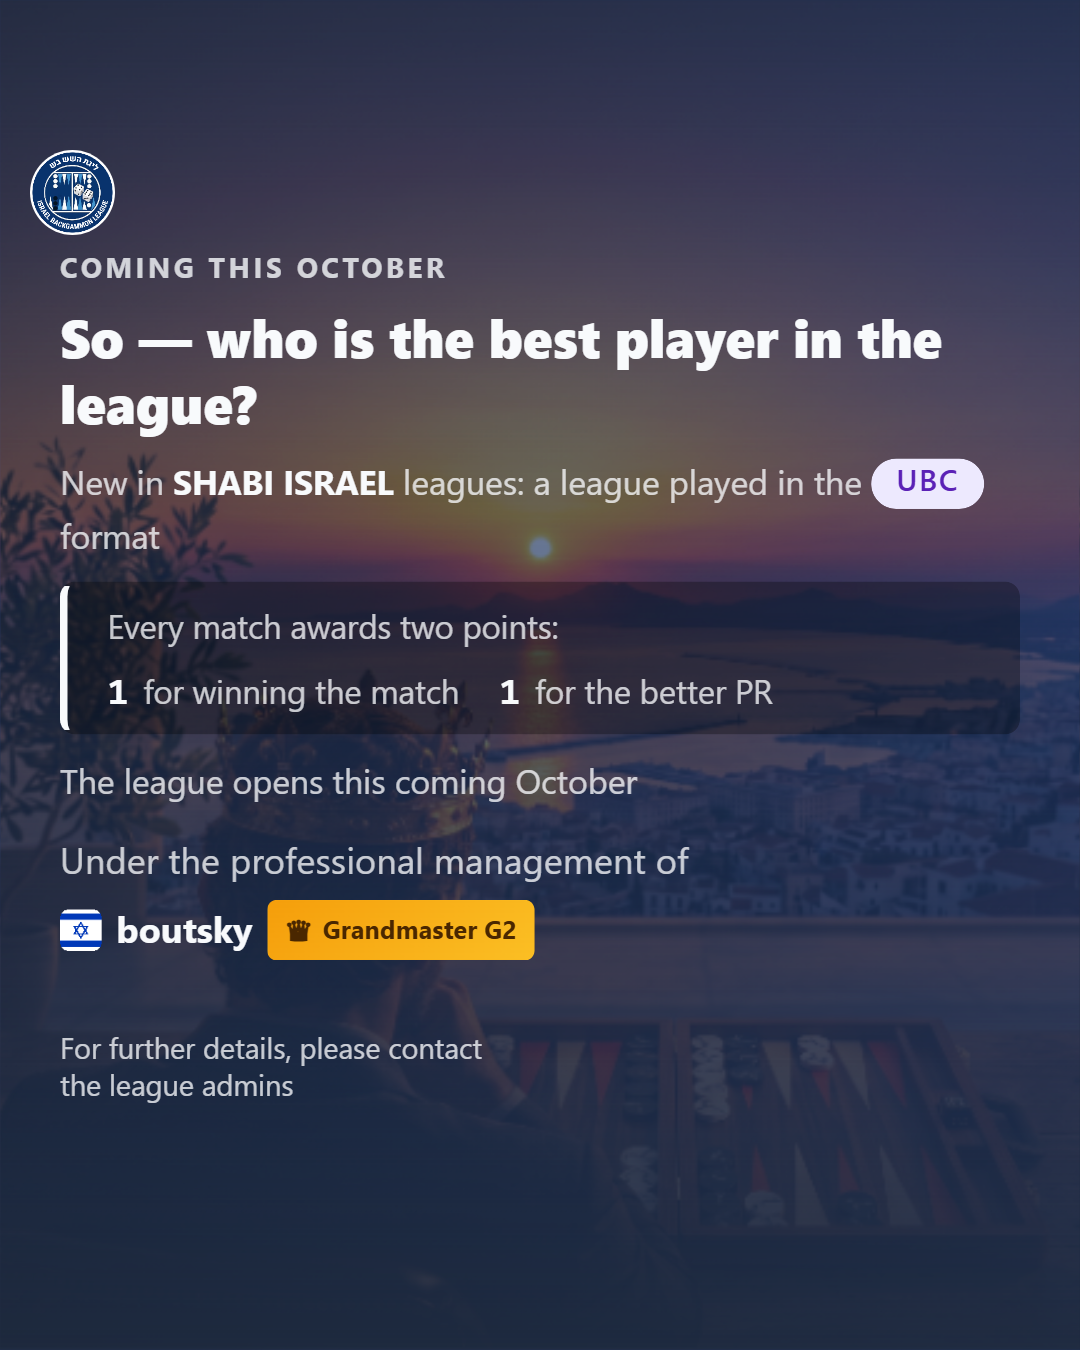
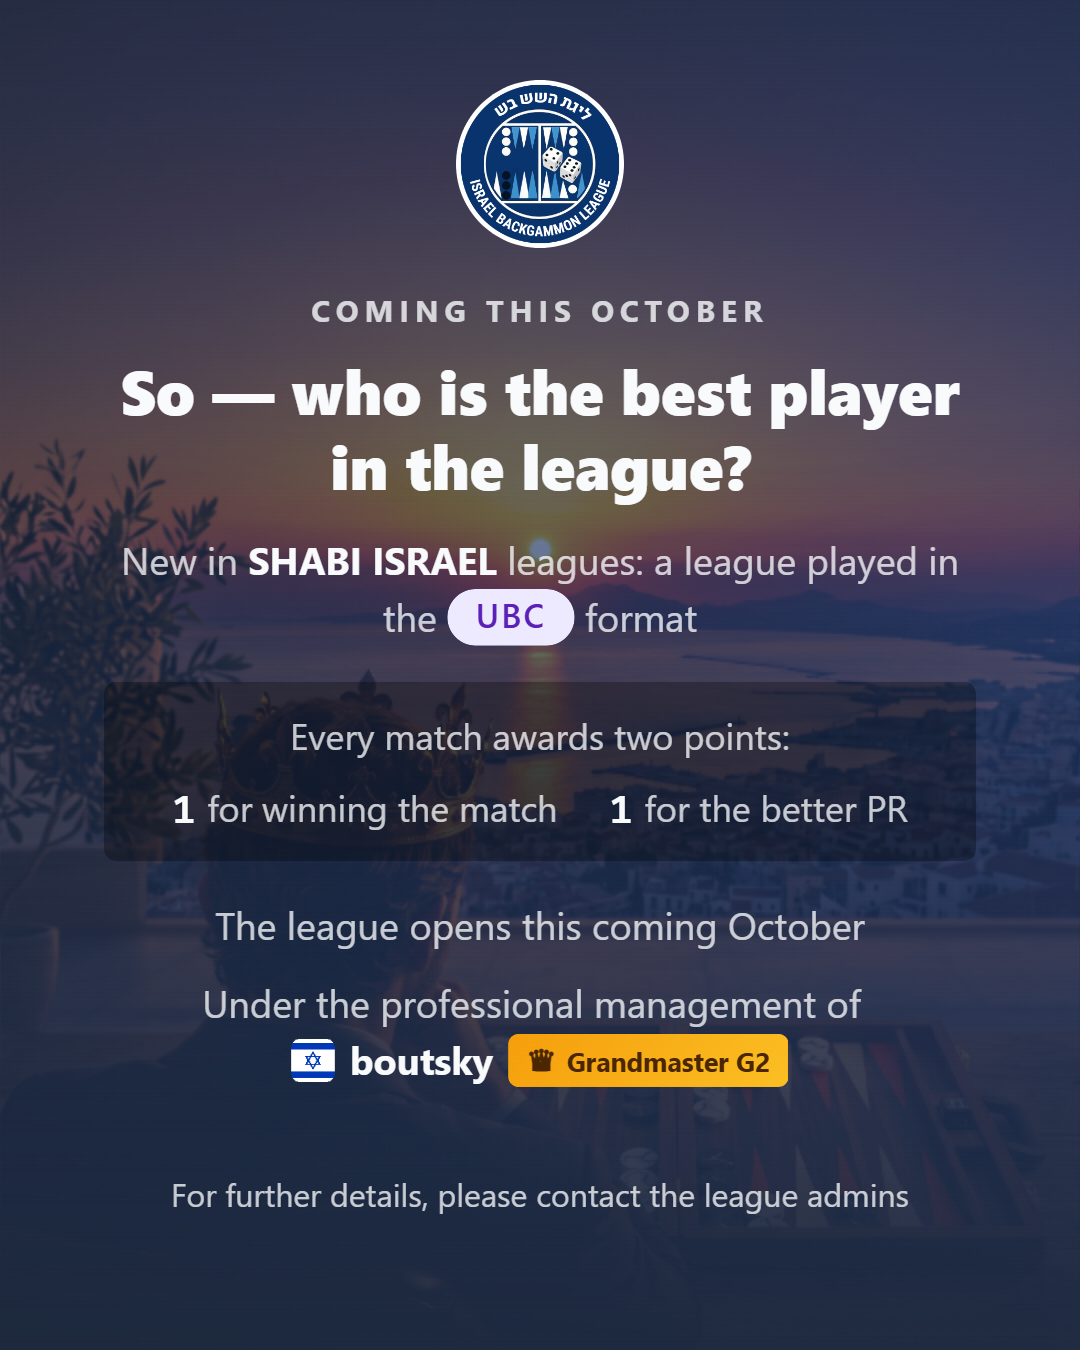
fix(db): a WHERE-less UPDATE was silently rejected by Supabase's safeupdate guard, killing every automatic projection dispatch for over an hour with no visible fault; fix(dashboard): Title Race recomputed the WHOLE league locally for one missing point instead of just that point; feat(promo-lab): sha
sql/league_projections.sql — the dispatch pipeline:
- **Root-cause fix**: `_dispatch_projection_run()`'s final `update
  public.projection_queue set dispatched_at = now(), ...` was WHERE-less,
  relying on Postgres allowing an unqualified UPDATE. The Supabase cloud
  project runs the `safeupdate` extension, which rejects that outright
  (`ERROR: UPDATE requires a WHERE clause`) — thrown *inside* Postgres, before
  `net.http_post` was ever reached, so no request even entered pg_net's outbox
  and there was nothing to inspect. Three matches landed between 21:11 and
  22:15 on 21 Sep 2026 with not one workflow run following. Fixed with an
  explicit `where league_id is not null` (league_id is the primary key, never
  null) — same fix applied to the two other WHERE-less UPDATEs in this
  function (the vault-secret-missing error path) and used consistently as "all
  rows, because the job takes all rows" rather than `where true`, so the
  intent reads back later.
- **A second, independent gap in the same mechanism**: `net.http_post` is
  fire-and-forget — it writes to pg_net's outbox and returns immediately; the
  actual GitHub response lands seconds later in `net._http_response`, which
  nothing here ever read. So a dispatch that Postgres itself executed cleanly
  but that GitHub *rejected* (expired PAT, renamed workflow/branch) looked
  identical to success: `dispatched_at` stamped, `last_error` null, no
  workflow run, no fault reported anywhere. New table
[…]

diff --git a/shabi-israel/promo-lab.html b/shabi-israel/promo-lab.html
@@ -987,7 +987,12 @@ async function saveToSite() {
    max(440px) it sat in the middle of the canvas with a third of the picture as
    empty background above and below it — fine as a modal over a page, wasteful
    as a picture whose whole job is to be legible as a chat thumbnail. */
-const SHARE_W = 432, SHARE_H = 540, SHARE_SCALE = 2.5;
+const SHARE_W = 540, SHARE_H = 675, SHARE_SCALE = 2;
+/* Symmetric side margin. The modal inherits --space-lg from the page, which is
+   sized for a 440px panel floating over content; across a full 1080px canvas
+   the same value reads as no margin at all, and RTL copy in particular ran
+   right up to the edge. */
+const SHARE_PAD_X = 52;
 /* Top SAFE AREA, in the frame's CSS px (x2.5 in the output).
    WhatsApp does not show a shared image whole in the chat bubble: it rounds the
    corners and shaves the top edge, which ate the upper half of the logo and
@@ -995,9 +1000,63 @@ const SHARE_W = 432, SHARE_H = 540, SHARE_SCALE = 2.5;
    only the CONTENT is inset, so what WhatsApp trims is photo rather than
    anything anyone needs to read. 54px = 10% of the frame, comfortably more than
    the observed crop. */
-const SHARE_SAFE_TOP = 54;
+const SHARE_SAFE_TOP = 40;
+
+/* The share image's own typography — a POSTER, not the modal.
+   Scoped to .promo-share, so none of it can reach the notice on the site.
+   Why it differs at all: the modal is read at arm's length on a phone that is
+   already showing the page, so it is left/right-aligned, compact, and sized to
+   sit beside content. A picture in a chat is judged as a thumbnail first and
+   has no content beside it — there a centred axis and much larger type are what
+   make it legible before anyone opens it. */
+const SHARE_CSS = `
+/* .promo.promo-share[data-lang] - four classes on purpose, not stylistic
+   flourish. The module's RTL rule is .promo[data-lang="he"] .promo-body,
+   specificity (0,3,0), so a plain .promo-share .promo-body at (0,2,0) loses:
+   the Hebrew poster silently kept its right-aligned copy while the English one
+   centred. Out-specifying it is the fix; relying on the later injection order
+   would be a tie that any future edit could flip.
+   (NO BACKTICKS anywhere in this stylesheet - it is a template literal, and one
+   backtick ends the string mid-rule. This exact bug has now happened three
+   times in this project.) */
+.promo.promo-share[data-lang] .promo-body,
+.promo.promo-share[data-lang] .promo-foot {
+    text-align: center;
+    padding-inline: ${SHARE_PAD_X}px;
+}
+.promo-share .promo-body { padding-top: 0; }
+/* The logo leads the poster, centred, instead of hiding in a corner. */
+.promo-share .promo-logo {
+    display: block;
+    margin: 0 auto 22px;
+    height: 84px; width: auto;
+    border-radius: 50%;
+}
+.promo-share .promo-eyebrow { font-size: 15px; letter-spacing: .2em; margin-bottom: 10px; }
+.promo-share .promo-title { font-size: 31px; line-height: 1.22; margin-bottom: 14px; }
+.promo-share .promo-body p { font-size: 19px; line-height: 1.5; margin-bottom: .55em; }
+.promo-share .promo-rule { margin: 18px 0; padding: 14px 18px; border-inline-start: 0; }
+.promo-share .promo-rule p { font-size: 18px; }
+.promo-share .promo-rule-pts { justify-content: center; gap: 26px; margin-top: 10px; }
+.promo-share .promo-rule-pt { font-size: 18px; }
+.promo-share .promo-rule-pt b { font-size: 21px; }
+/* The manager block is an inline-flex island; centring its paragraph is what
+   actually moves it, not text-align on the island itself. */
+.promo-share p.promo-manager { text-align: center; margin-top: 4px; }
+.promo-share .promo-foot { justify-content: center; padding-top: 14px; }
+.promo-share .promo-foot-note { font-size: 16px; max-width: none; }
+`;
+let _shareCssInjected = false;
+function injectShareCss() {
+    if (_shareCssInjected) return;
+    _shareCssInjected = true;
+    const el = document.createElement('style');
+    el.textContent = SHARE_CSS;
+    document.head.appendChild(el);
+}
 
 async function buildShareFrame(lang) {
+    injectShareCss();
     // configFromState() is the SAME config the preview is rendered from, so the
     // image can only ever show the design currently on screen. flags/x are
     // turned off at the CONFIG level, so buildPromoModal simply never emits
@@ -1024,6 +1083,7 @@ async function buildShareFrame(lang) {
        go, and the artwork the card already carries becomes the whole canvas.
        Nothing about the CARD's design changes: this is the same Spotlight
        layout with its chrome removed, not a second design. */
+    card.classList.add('promo-share');
     card.style.width = '100%';
     card.style.height = '100%';
     card.style.maxHeight = 'none';
@@ -1050,14 +1110,16 @@ async function buildShareFrame(lang) {
     // and the card does not suddenly end flush against its last line.
     card.querySelector('.promo-cta')?.remove();
 
-    // The logo takes the flags' place: same corner, same offsets.
+    /* The logo leads the poster. It used to be absolutely positioned in the
+       corner the language flags had vacated — which is right for a modal, where
+       that corner is chrome, and wrong for a picture, where it reads as a
+       watermark stuck to one edge. Now it is the first thing in the flow,
+       centred above the copy and sized to be recognisable as a thumbnail. */
     const logo = document.createElement('img');
     logo.src = 'assets/logo/logo.png';
     logo.alt = 'Shabi Israel';
-    // Moved down with the copy — it was the first casualty of the crop.
-    logo.style.cssText = `position:absolute;top:${SHARE_SAFE_TOP + 6}px;left:12px;z-index:3;`
-        + 'height:34px;width:auto;border-radius:50%;';
-    card.appendChild(logo);
+    logo.className = 'promo-logo';
+    card.querySelector('.promo-body')?.prepend(logo);
 
     const frame = document.createElement('div');
     const bodyStyle = getComputedStyle(document.body);

diff --git a/shabi-israel/js/render/dashboardPage.js b/shabi-israel/js/render/dashboardPage.js
@@ -721,14 +721,22 @@ async function renderTitleRace(ctx) {
 
     const scheduleFp = scheduleFingerprint(ctx.allMatchesIncUnplayed, fingerprintSettings(ctx));
     const expectedHashes = pointFingerprints(points.map(p => p.match), scheduleFp);
-    let staleCount = 0;
+    // WHICH points are stale, not how many. The count alone was all this kept,
+    // and the whole per-point staleness design above was then thrown away one
+    // line later: the local pass re-projected the ENTIRE league, including every
+    // point it had just proved current. A league one match ahead of the job —
+    // the normal state in the seconds after a result lands — paid ~230 Monte
+    // Carlo runs to learn one new number, and the console said
+    // "1/231 points not yet projected - computing those locally" while computing
+    // all 231.
+    const pending = [];
 
     const stored = await loadLeagueProjections(ctx.leagueId);
     if (stored && Array.isArray(stored.points) && stored.points.length) {
         const byHash = new Map(stored.points.map(sp => [sp.hash, sp]));
         for (let i = 0; i < points.length; i++) {
             const sp = byHash.get(expectedHashes[i]);
-            if (!sp) { staleCount++; continue; }   // missing OR superseded
+            if (!sp) { pending.push(i); continue; }   // missing OR superseded
             const row = {};
             stored.roster.forEach((player, pos) => {
                 const arr = sp.r[pos];
@@ -740,9 +748,14 @@ async function renderTitleRace(ctx) {
         seedPlotted();
         chart.draw();
         // Everything present and current — no local computation at all.
-        if (staleCount === 0) return;
-        console.info(`[title race] ${staleCount}/${points.length} points not yet projected — computing those locally`);
+        if (!pending.length) return;
+        console.info(`[title race] ${pending.length}/${points.length} points not yet projected — computing those locally`);
     }
+
+    // No stored projection at all (a league the job has never reached), so every
+    // point is pending. Reaching here with an empty list can only mean that:
+    // a stored projection with nothing pending returned above.
+    if (!pending.length) for (let i = 0; i < points.length; i++) pending.push(i);
 
     // Computing locally: the contender test has nothing to read yet, so the
     // podium seeds the chart and stays - see seedFromPodium.
@@ -750,8 +763,11 @@ async function renderTitleRace(ctx) {
 
     const last300Map = await ensureLast300Map(ctx);
 
-    const onPoint = (index, topX, n) => {
-        topXByPoint[index] = topX;
+    // `slot` indexes the PENDING list the worker was handed, not the timeline.
+    // Both hosts report their own loop counter, so the translation belongs here,
+    // once, rather than in each of them.
+    const onPoint = (slot, topX, n) => {
+        topXByPoint[pending[slot]] = topX;
         if (!playerCount) { playerCount = n; fillTopXOptions(n); }
         chart.draw();
     };
@@ -764,7 +780,7 @@ async function renderTitleRace(ctx) {
         leagueConfig: ctx.leagueConfig,
         last300Map: [...last300Map.entries()],
         iterations: TIMELINE_ITERATIONS,
-        points: points.map(p => p.value),
+        points: pending.map(i => points[i].value),
     };
 
     try {
@@ -789,11 +805,11 @@ async function renderTitleRace(ctx) {
     function projectOnMainThread() {
         let i = 0;
         const step = () => {
-            if (i >= points.length) return;
+            if (i >= pending.length) return;
             const point = projectAt({
                 timeline: ctx.timeline,
                 allMatchesIncUnplayed: ctx.allMatchesIncUnplayed,
-                pointValue: points[i].value,
+                pointValue: points[pending[i]].value,
                 allPlayers: ctx.allPlayersSet,
                 matchLength: payload.matchLength,
                 leagueConfig: ctx.leagueConfig,
@@ -2339,7 +2355,7 @@ function renderWhatIfSimulator(ctx) {
                 // Not a display control: this changes the METRIC in the last
                 // column (P(finish in top X)) and with it the whole table's
                 // sort order — so the chosen X is what's worth logging.
-                trackWhatIf(`What if topx: ${wiTopXInput.selectedOptions[0]?.textContent || currentX}`);
+                trackWhatIf(`What if top X: ${wiTopXInput.selectedOptions[0]?.textContent || currentX}`);
                 renderTable(expanded);
             };
 

diff --git a/shabi-israel/js/render/analyticsPage.js b/shabi-israel/js/render/analyticsPage.js
@@ -1283,7 +1283,8 @@ const CLICK_TYPE_ICONS = [
     // (the whole panel folding) vs 'What if: table ' (the result list
     // expanding) never share a leading string.
     { prefix: 'What if baseline: ', icon: '🧪🕘' },  // rewind the starting point
-    { prefix: 'What if topx: ', icon: '🧪🔝' },      // P(finish in top X) metric
+    { prefix: 'What if top X: ', icon: '🧪🔝' },     // P(finish in top X) metric
+    { prefix: 'What if topx: ', icon: '🧪🔝' },      // retired spelling — kept so pre-rename rows keep the icon
     { prefix: 'What if: player ', icon: '🧪👤' },    // A / B picker
     { prefix: 'What if: add match', icon: '🧪🆚' },  // pair staged
     // One click that stages a whole player's remaining fixtures. ⚡ for the bulk:
